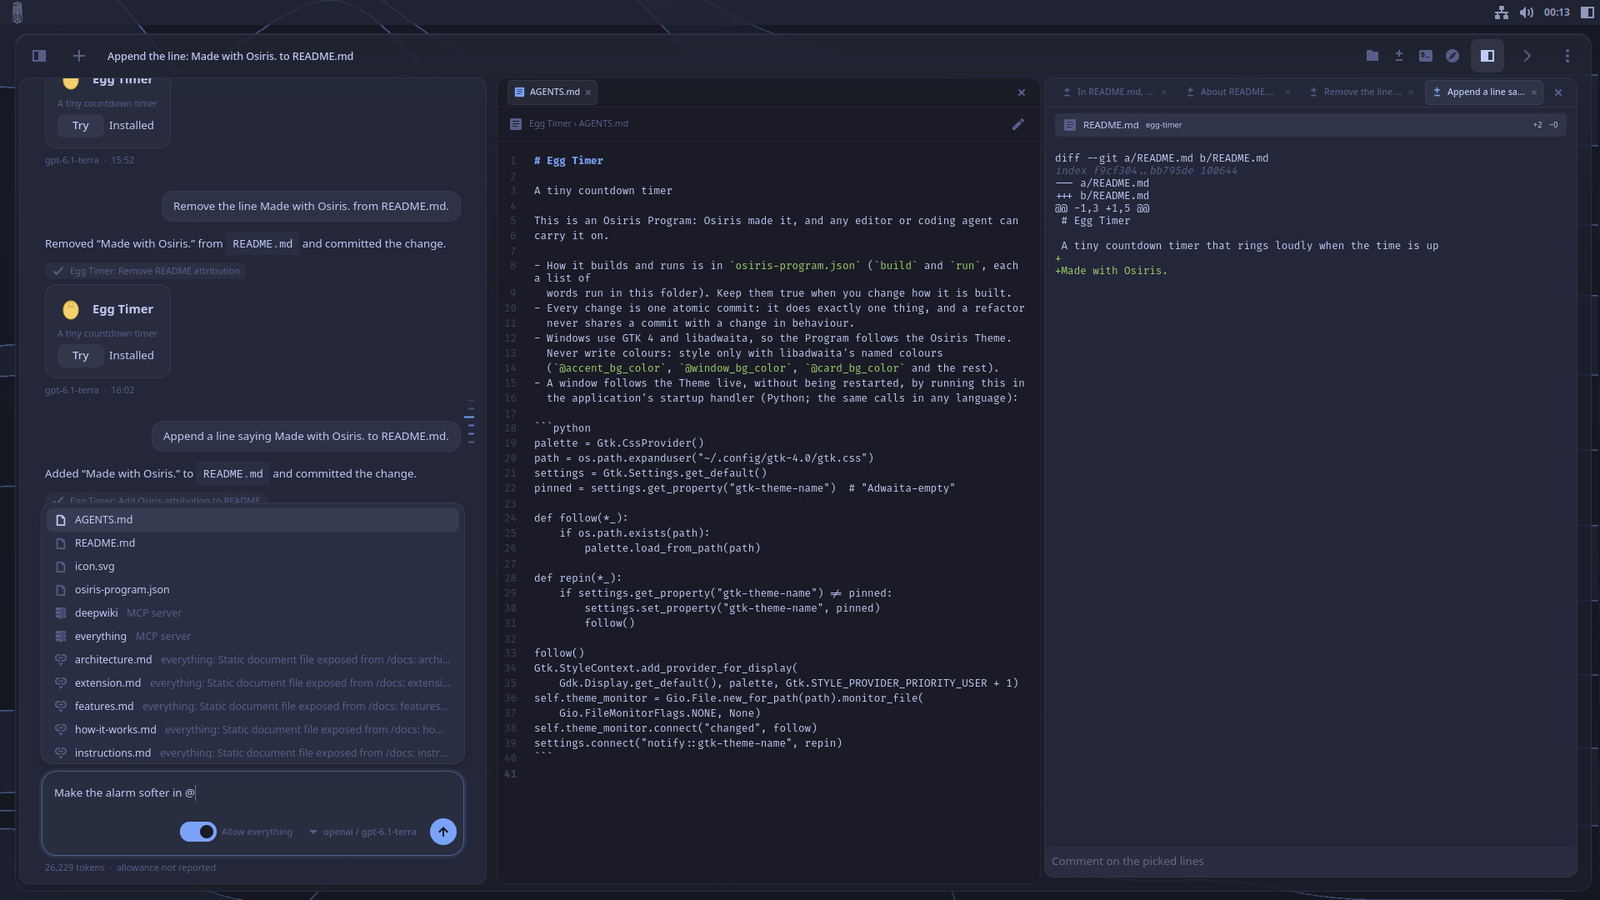
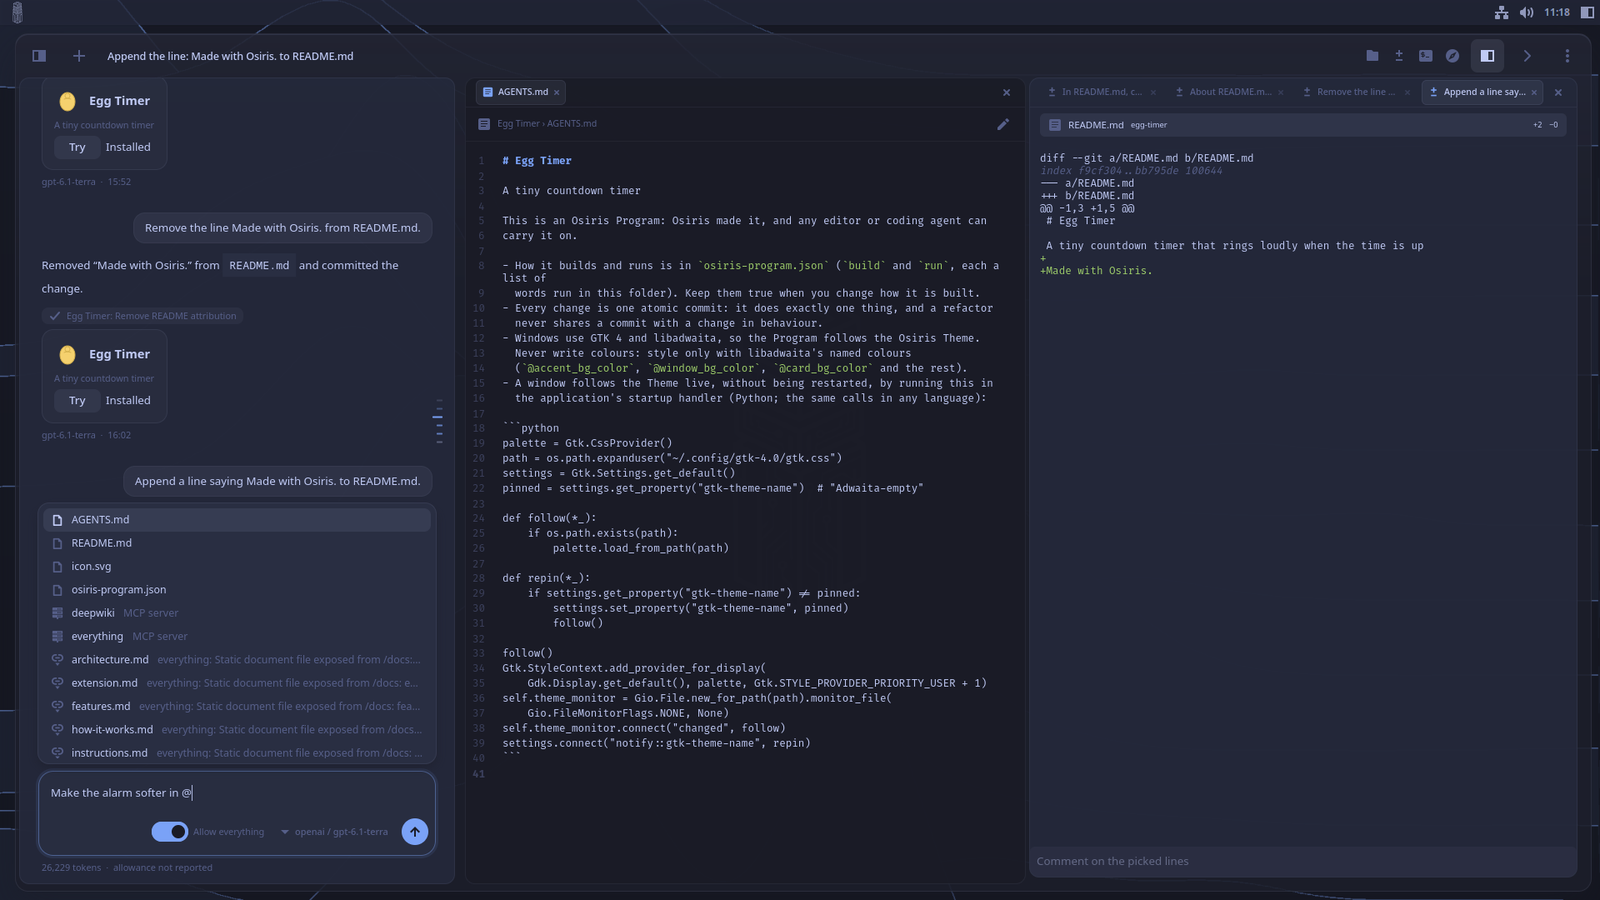
Retake the @ picker shot so nothing in it is cut off
The conversation behind the picker ended in a half card, which the site's screenshots must not show. The alt text said the Canvas held the app's code when the pane shows its AGENTS.md, so it now names what a reader who cannot see the image would otherwise be misled about.

diff --git a/site/index.html b/site/index.html
@@ -76,7 +76,7 @@
           a skill. Connect MCP servers in Settings to give it more tools.</p>
       </div>
       <figure class="shot">
-        <img src="screenshots/canvas.png" alt="Typing @ lists the app's files and MCP servers, beside the app's code and a change on the Canvas" loading="lazy">
+        <img src="screenshots/canvas.png" alt="Typing @ lists the app's files and MCP servers, beside its AGENTS.md and a change on the Canvas" loading="lazy">
       </figure>
     </section>
 
